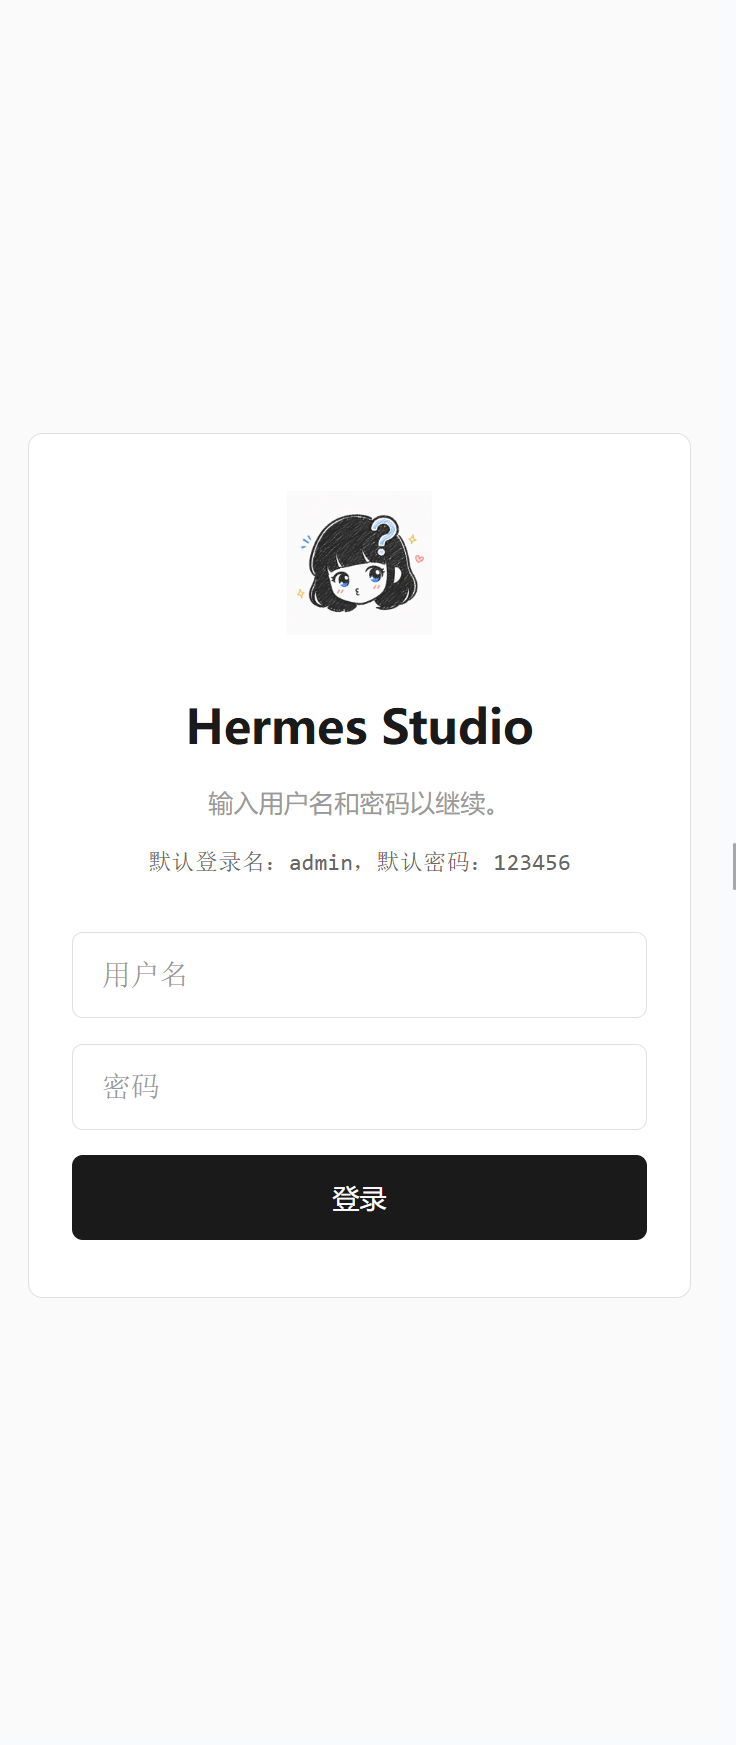
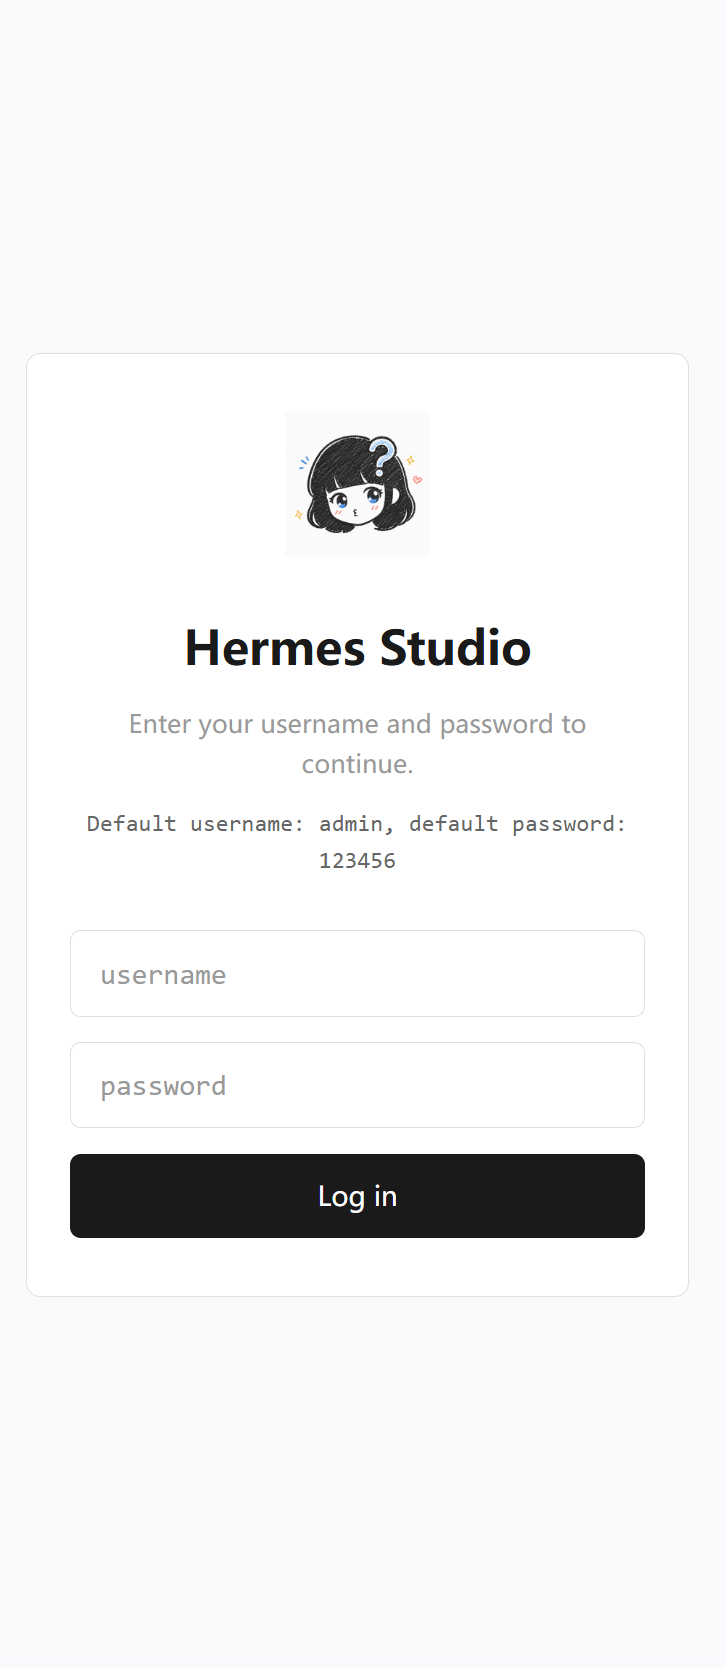
docs: 更新为6张英文截图，替换旧截图
- 登录界面 login.png
- 侧边栏 sidebar.png
- 对话中 chatting.png
- 聊天对话 conversation.png
- 浅色主题 light-theme.png
- 深色主题 dark-theme.png

Changed region(s): [[0.0909, 0.53, 0.9091, 0.7482], [0.1212, 0.2494, 0.8485, 0.53]]

diff --git a/README.zh-CN.md b/README.zh-CN.md
@@ -66,9 +66,13 @@ mklink /J "C:\Users\<用户名>\AppData\Local\Programs\Hermes Studio\resources\w
 
 ## 界面截图
 
-| 登录界面 | 主界面 | 聊天界面 |
+| 登录界面 | 侧边栏 | 对话中 |
 |---------|--------|---------|
-| ![登录](screenshots/login.png) | ![主界面](screenshots/screenshot1.png) | ![聊天](screenshots/chat.png) |
+| ![登录](screenshots/login.png) | ![侧边栏](screenshots/sidebar.png) | ![对话中](screenshots/chatting.png) |
+
+| 聊天对话 | 浅色主题 | 深色主题 |
+|---------|--------|---------|
+| ![聊天对话](screenshots/conversation.png) | ![浅色主题](screenshots/light-theme.png) | ![深色主题](screenshots/dark-theme.png) |
 
 ## 技术说明
 

diff --git a/README.md b/README.md
@@ -66,9 +66,13 @@ Open the URL above in your phone's Safari/Chrome browser.
 
 ## Screenshots
 
-| Login | Main | Chat |
+| Login | Sidebar | Chatting |
 |---------|--------|---------|
-| ![Login](screenshots/login.png) | ![Main](screenshots/screenshot1.png) | ![Chat](screenshots/chat.png) |
+| ![Login](screenshots/login.png) | ![Sidebar](screenshots/sidebar.png) | ![Chatting](screenshots/chatting.png) |
+
+| Conversation | Light Theme | Dark Theme |
+|---------|--------|---------|
+| ![Conversation](screenshots/conversation.png) | ![Light](screenshots/light-theme.png) | ![Dark](screenshots/dark-theme.png) |
 
 ## Technical Details
 
